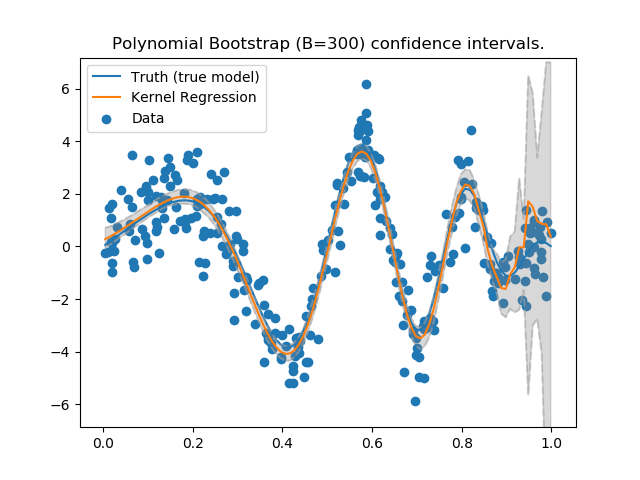
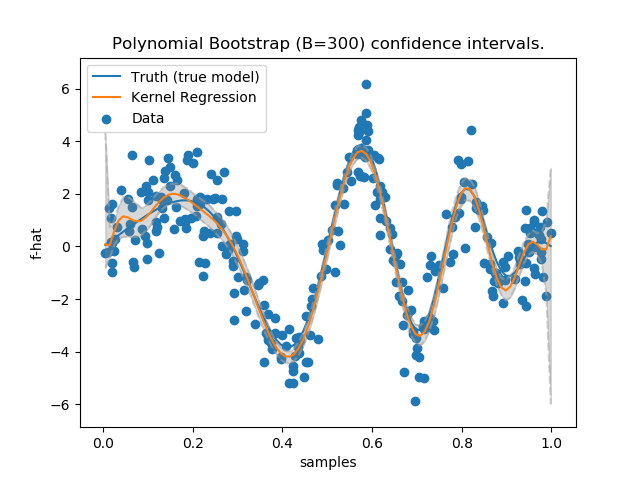
Add data standardization, redo plots and fits in A3.

diff --git a/HW3/HW3_code_solutions/k_means.py b/HW3/HW3_code_solutions/k_means.py
@@ -1,0 +1,206 @@
+import numpy as np
+import matplotlib.pyplot as plt
+import itertools
+import multiprocessing as mp
+import time
+from mnist import MNIST
+
+np.random.seed(0)
+
+def load_mnist_dataset(path="data/mnist_data/"):
+    """Loads MNIST data located at path.
+
+    MNIST data are 28x28 pixel large images of numbers.
+
+    Parameters
+    ----------
+    path : `str`
+        path to the data directory
+
+    Returns
+    -------
+    train : `np.array`
+        train data normalized to 1
+    trainlabels : `np.array`
+        train data labels
+    test : `np.array`
+        test data normalized to 1
+    testLabels : `np.array`
+        test data labels
+    """
+    mndata = MNIST(path)
+
+    train, trainLabels = map(np.array, mndata.load_training())
+    test, testLabels  = map(np.array, mndata.load_testing())
+
+    train = train/255.0
+    test = test/255.0
+
+    return train, trainLabels, test, testLabels
+
+
+def k_means_objective(clusters, centers):
+    """Calculates the sum of distances of points in a cluster to the given
+    cluster centers. This is the k-means objective, defined as:
+
+        F(mu, C) = \sum^m || mu_j - x_j ||^2
+
+    where mu are the cluster centers and x_j the point in that cluster.
+
+    Parameters
+    ----------
+    clusters: `np.array`
+        Clusters of points (each element a collection of points belonging to
+        that cluster)
+    centers: `np.array`
+        Coordinates of centers of corresponding clusters.
+
+    Returns
+    -------
+    objective: `float`
+        K-means objective
+    """
+    dist = [np.sum(np.linalg.norm(c-p, axis=1)) for c, p in zip(centers, clusters)]
+    return np.sum(dist)
+
+
+def cluster_data(points, centers):
+    """Calculates distance from each point to all given clusters and forms
+    clusters by associatin points with its closest center.
+
+    Parameters
+    ----------
+    points: `np.array`
+        Points to cluster
+    centers: `np.array`
+        Cluster centers.
+
+    Returns
+    -------
+    clusters: `np.array`
+        Array each element of which is an cluster. A cluster is an array of
+        points that bellonging to the same cluster.
+    """
+    nClusters = len(centers)
+    # equivalent to: np.linalg.norm(points - centers[:, None], axis=2)
+    # but for more clusters memory just runs out
+    distances = [np.linalg.norm(points - center, axis=1) for center in centers]
+    closestClusters = np.argmin(np.array(distances), axis=0)
+    clusters = np.array([points[closestClusters == i] for i in range(nClusters)])
+    return clusters
+
+
+def calculate_centers(clusters):
+    """Calculates centers of given clusters by calculating the mean of the
+    individual coordinates of points in that cluster. 
+    """
+    cluster_sizes = np.array([cluster.shape[0] for cluster in clusters])
+    centers = np.array([np.mean(cluster, axis=0) for cluster in clusters])
+    return centers
+
+
+def loyds_alg(points, nClusters, tolerance=0.01):
+    """Iteratively calculates centers and re-assinged clusters based on those
+    centers until convergence is achieved. Intial centers are selected as
+    random points from the given dataset. Convergence is achieved then the new
+    center coordinate components maximal distance from the old center
+    coordinates is smaller than tolerance. This is known as Loyd's algorithm
+    for calculating k-means.
+
+
+    """
+    # assign first centers to be random points in the dataset
+    centers = points[np.random.permutation(np.arange(len(points)))[:nClusters]]
+    clusters = cluster_data(points, centers)
+
+    oldCenters, oldClusters = centers, clusters
+    converged = False
+    objectives = []
+    while not converged:
+        centers = calculate_centers(clusters)
+        clusters = cluster_data(points, centers)
+        
+        convergence_difference = np.max(np.abs(centers - oldCenters))
+        if convergence_difference < tolerance:
+            converged = True
+        
+        objective = k_means_objective(clusters, centers)
+        objectives.append(objective)
+        
+        oldCenters = centers
+        oldClusters = clusters
+
+    return centers, clusters, objectives
+
+
+def plot_objectives(ax, objectives, xlabel="Iteration number", ylabel="Objective",
+                    title="Cluster centers"):
+    """Plots objectives.
+
+    Paramters
+    ---------
+    ax: `matplotlib.pyplot.Axes`
+        Axis to plot on.
+    objectives: `np.array`
+        Array of objective scores.
+    xlabel: `str`, optional
+        X label
+    ylabel: `str`, optional
+        Y label
+    title: `str`, optional
+        Axis title.
+    """
+    ax.plot(objectives)
+    ax.set_xlabel(xlabel)
+    ax.set_ylabel(ylabel)
+    ax.set_title(title)
+    return ax
+
+
+def plot_centers(axes, centers, title=""):
+    """Plots centers as 28x28 images.
+
+    Paramters
+    ---------
+    axes: `matplotlib.pyplot.Axes`
+        Axes to plot on.
+    centers: `np.array`
+        Centers to plot.
+    title: `str`, optional
+        Axis title.
+    """
+    for ax, center in zip(axes.ravel(), centers):
+        ax.imshow(center.reshape((28, 28)), cmap='gray')
+        ax.set_title(title)
+        plt.axis("off")
+    return axes
+
+def A4b(k=10):
+    test, testLabels, train, trainLabels = load_mnist_dataset()
+    centers, clusters, objectives = loyds_alg(test, k)
+
+    fig1, axis1 = plt.subplots()
+    plot_objectives(axis1, objectives)
+    plt.show()
+
+    fig, axes = plt.subplots(2, 5, figsize=(10, 25), sharex=True, sharey=True)
+    plot_centers(axes, centers)
+    plt.axis("off")
+    plt.show()
+
+
+def A4c(k=(2, 4, 6, 8, 16, 32, 64)):
+    test, testLabels, train, trainLabels = load_mnist_dataset()
+    centers, clusters, objectives = loyds_alg(test, k)
+
+    fig1, axis1 = plt.subplots()
+    plot_objectives(axis1, objectives)
+    plt.show()
+
+    fig, axes = plt.subplots(2, 5, figsize=(10, 25), sharex=True, sharey=True)
+    plot_centers(axes, centers)
+    plt.show()
+
+
+if __name__ == "__main__":
+    A4b()

diff --git a/HW3/HW3_code_solutions/kernel_regression.py b/HW3/HW3_code_solutions/kernel_regression.py
@@ -3,7 +3,6 @@ import matplotlib.pyplot as plt
 import itertools
 import multiprocessing as mp
 import time
-from mnist import MNIST
 
 np.random.seed(0)
 
@@ -48,6 +47,9 @@ class Kernel:
         lambd = kwargs.pop("lambd", None)
         hyperparams = kwargs
 
+        self._mean = None
+        self._std = None
+
         if x is not None:
             self.x = x
         if y is not None:
@@ -61,10 +63,19 @@ class Kernel:
         """Defines kernel action, i.e. given an x_i, x_j evaluates the kernel.
         Needs to be an vectorized operation, such that supplying two vectors
         with dimensions n and m returns n-by-m matrix.
-        Supplying a single vector x as both arguments should returns a diagonal
-        matrix.
         """
         raise NotImplementedError
+
+    def standardize(self, x, mean=None, std=None):
+        """Returns a standardized copy of the array using the given weights.
+        """
+        if mean is None:
+            self._mean = np.mean(x)
+            mean = self._mean
+        if std is None:
+            self._std = np.std(x)
+            std = self._std
+        return (x-mean)/std
 
     def fit(self, x, y):
         """Given features x and labels y, updates the class attributes and
@@ -79,6 +90,7 @@ class Kernel:
             Labels for corresponding features.
         """
         self.update(x=x, y=y)
+        x = self.standardize(x)
         K = self.eval(x, x)
         self.alpha = np.linalg.solve(K + self.lambd * np.eye(len(K)), y)
 
@@ -104,8 +116,10 @@ class Kernel:
         """
         if self.alpha is None:
             raise AttributeError("Kernel has not been trained.")
-        basis = self.eval(self.x, x)
-        return np.dot(self.alpha, basis)
+        sx = self.standardize(self.x, self._mean, self._std)
+        xx = self.standardize(x, self._mean, self._std)
+        kernel = self.eval(sx, xx)
+        return np.dot(self.alpha, kernel)
 
     def score(self, x, y):
         """Predicts the labels of the given features and compares them to the
@@ -432,7 +446,7 @@ def A3a(kernelType, x, y, foldSize, lambdas, hyperparams, xlabel="", title=""):
     return samples, best
 
 
-def A3b(kernelType, x, y, bestFit, axis=None, title=None):
+def A3b(kernelType, x, y, bestFit, axis=None, title=None, xlabel="samples", ylabel="f-hat"):
     """Using best fit parameters plots the data, the truth (true model) and the
     best fitting kernel.
 
@@ -469,6 +483,8 @@ def A3b(kernelType, x, y, bestFit, axis=None, title=None):
     axis.plot(xTest, yHat, label="Kernel Regression")
 
     axis.set_title(title)
+    axis.set_xlabel(xlabel)
+    axis.set_ylabel(ylabel)
     axis.legend()
 
     return axis
@@ -614,15 +630,16 @@ def A3(n=30, foldSize=30, doPoly=True, doRBF=True, doA3e=False):
     y = truth(x) + np.random.normal(size=n)
 
     if doPoly:
-        lambdas = np.linspace(0.5, 0.9, 150)
-        degrees = np.arange(30, 60, 1)        
-        samplesPoly, bestPoly = A3a("poly", x, y, foldSize, lambdas, degrees)
+        lambdas = np.arange(0.3, 0.7, 0.01)
+        degrees = np.arange(0, 20, 1)        
+        samplesPoly, bestPoly = A3a("poly", x, y, foldSize, lambdas, degrees,
+                                    xlabel="degree", title="Polynomial kernel")
         A3b("poly", x, y, bestPoly, title="Polynomial Kernel")
         A3c("poly", x, y, bestPoly, title="Polynomial Bootstrap (B=300) confidence intervals.")
             
     if doRBF:
-        lambdas = np.linspace(0.0001, 0.1, 50)
-        gammas = np.linspace(30, 150, 150)
+        lambdas = np.arange(0.001, 0.6, 0.01)
+        gammas = np.arange(0.1, 20, 0.25)
         samplesRdf, bestRdf = A3a("rbf", x, y, foldSize, lambdas, gammas,
                                   xlabel="gamma", title="RBF Kernel")
         A3b("rbf", x, y, bestRdf, title="RBF Kernel")
